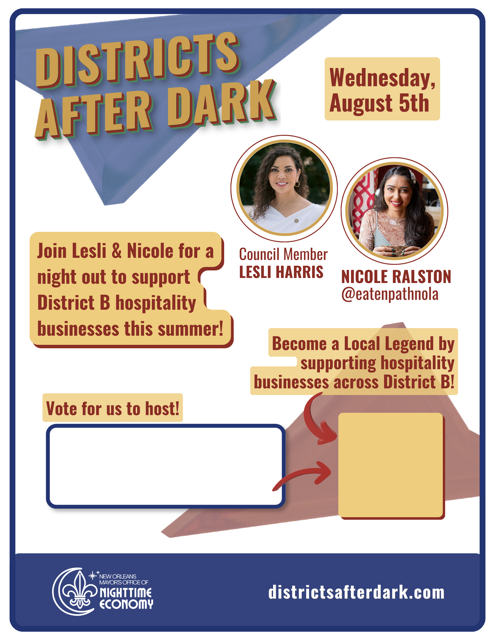
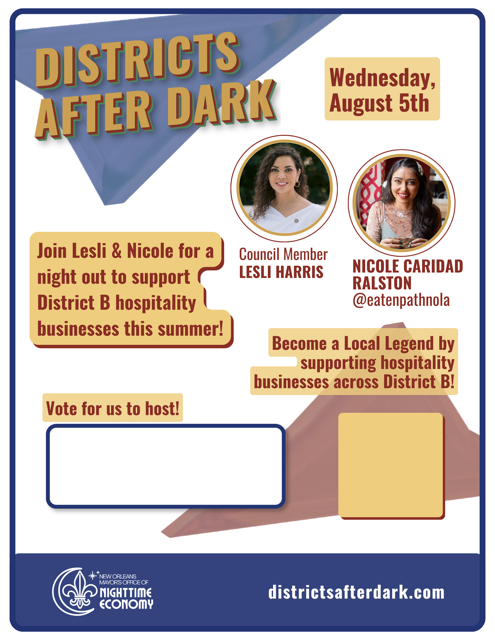
lilfix2

Changed region(s): [[0.6667, 0.2188, 0.9394, 0.5], [0.5758, 0.5938, 0.697, 0.75], [0.5455, 0.75, 0.5758, 0.7812]]

diff --git a/promote.html b/promote.html
@@ -925,7 +925,7 @@
                         <h3 style="font-family: var(--font-header); color: var(--brand-red); font-size: 1.5rem; margin-bottom: 10px; text-transform: uppercase; align-self: flex-start;">Printable Flyer</h3>
                         <div id="flyer-composite" style="position: relative; width: 100%; max-width: 450px; aspect-ratio: 8.5/11; background: white; border-radius: 16px; border: 4px solid var(--text-primary); overflow: hidden; box-shadow: 0 15px 35px rgba(0,0,0,0.6);">
                             <!-- We can overlay the logo and QR code over the flyer background -->
-                            <img id="flyer-base-img" src="assets/Districts%20Standup%20Draft3.png" style="width: 100%; height: 100%; object-fit: cover;">
+                            <img id="flyer-base-img" src="assets/Districts_Standup_Flyer/Districts_Standup_B.png" style="width: 100%; height: 100%; object-fit: cover;">
                             <!-- Flyer Logo -->
                             <img id="flyer-logo-overlay" src="" style="position: absolute; object-fit: contain;">
                             <!-- Flyer QR Code -->

diff --git a/index.html b/index.html
@@ -980,7 +980,7 @@
         .pv-split {
             display: flex;
             gap: 100px;
-            align-items: center;
+            align-items: flex-start;
         }
 
         .pv-copy {
